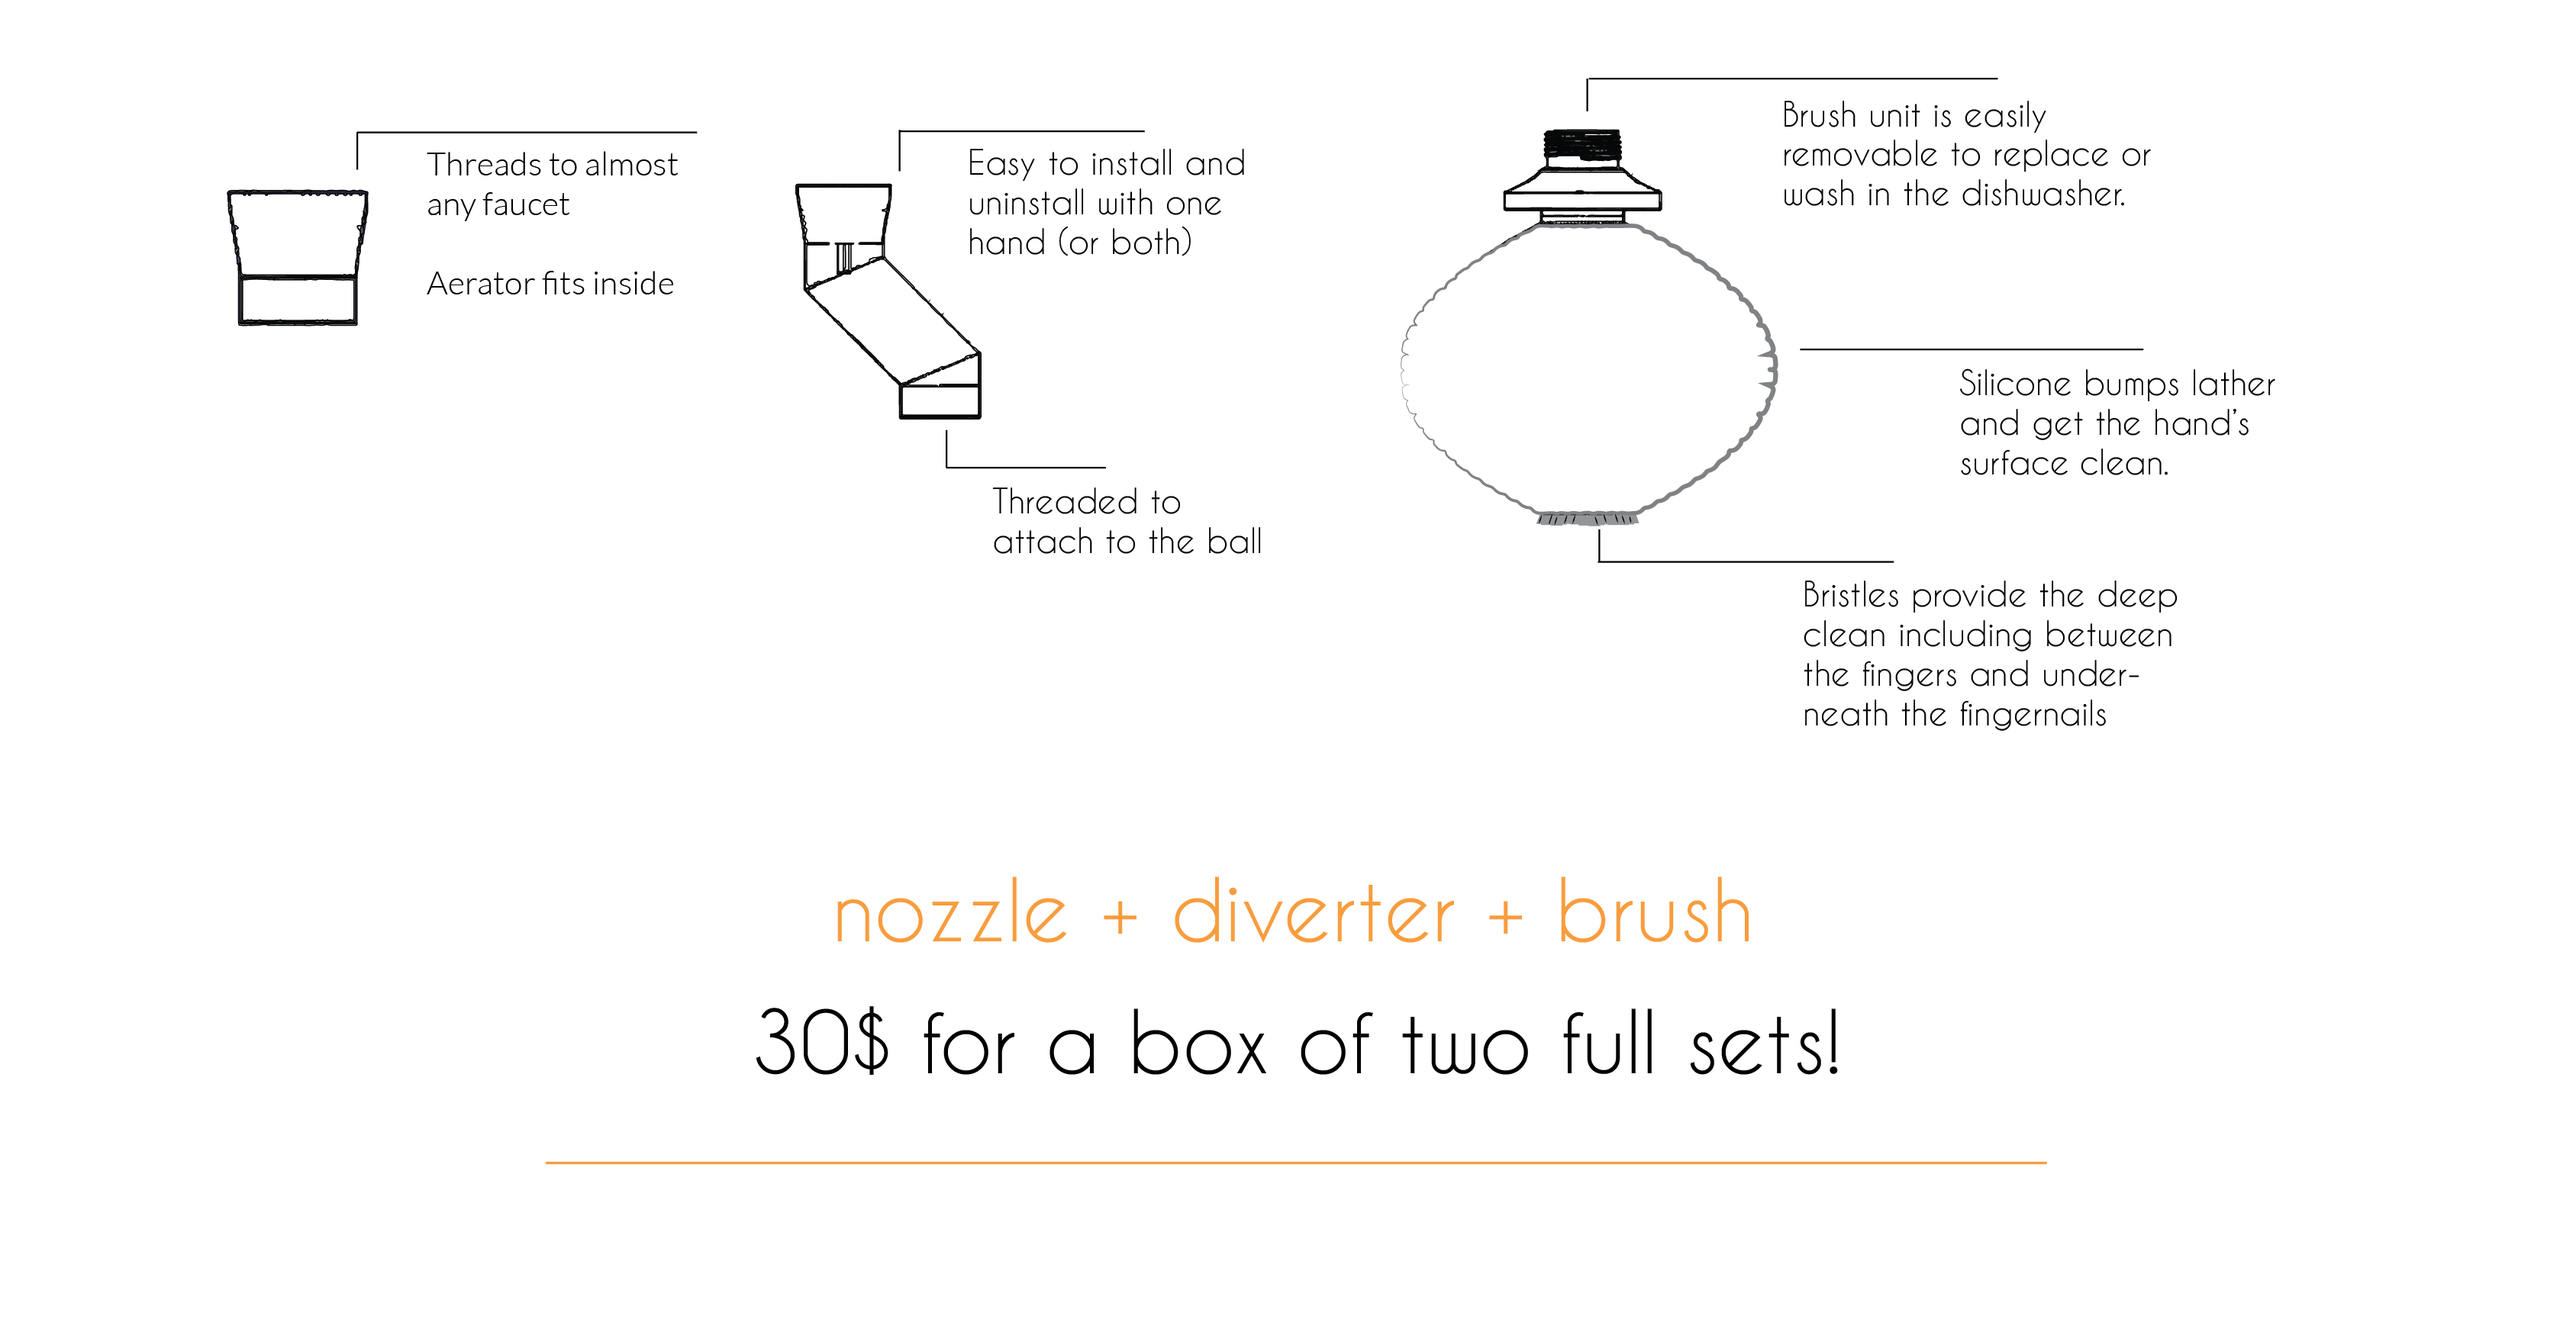
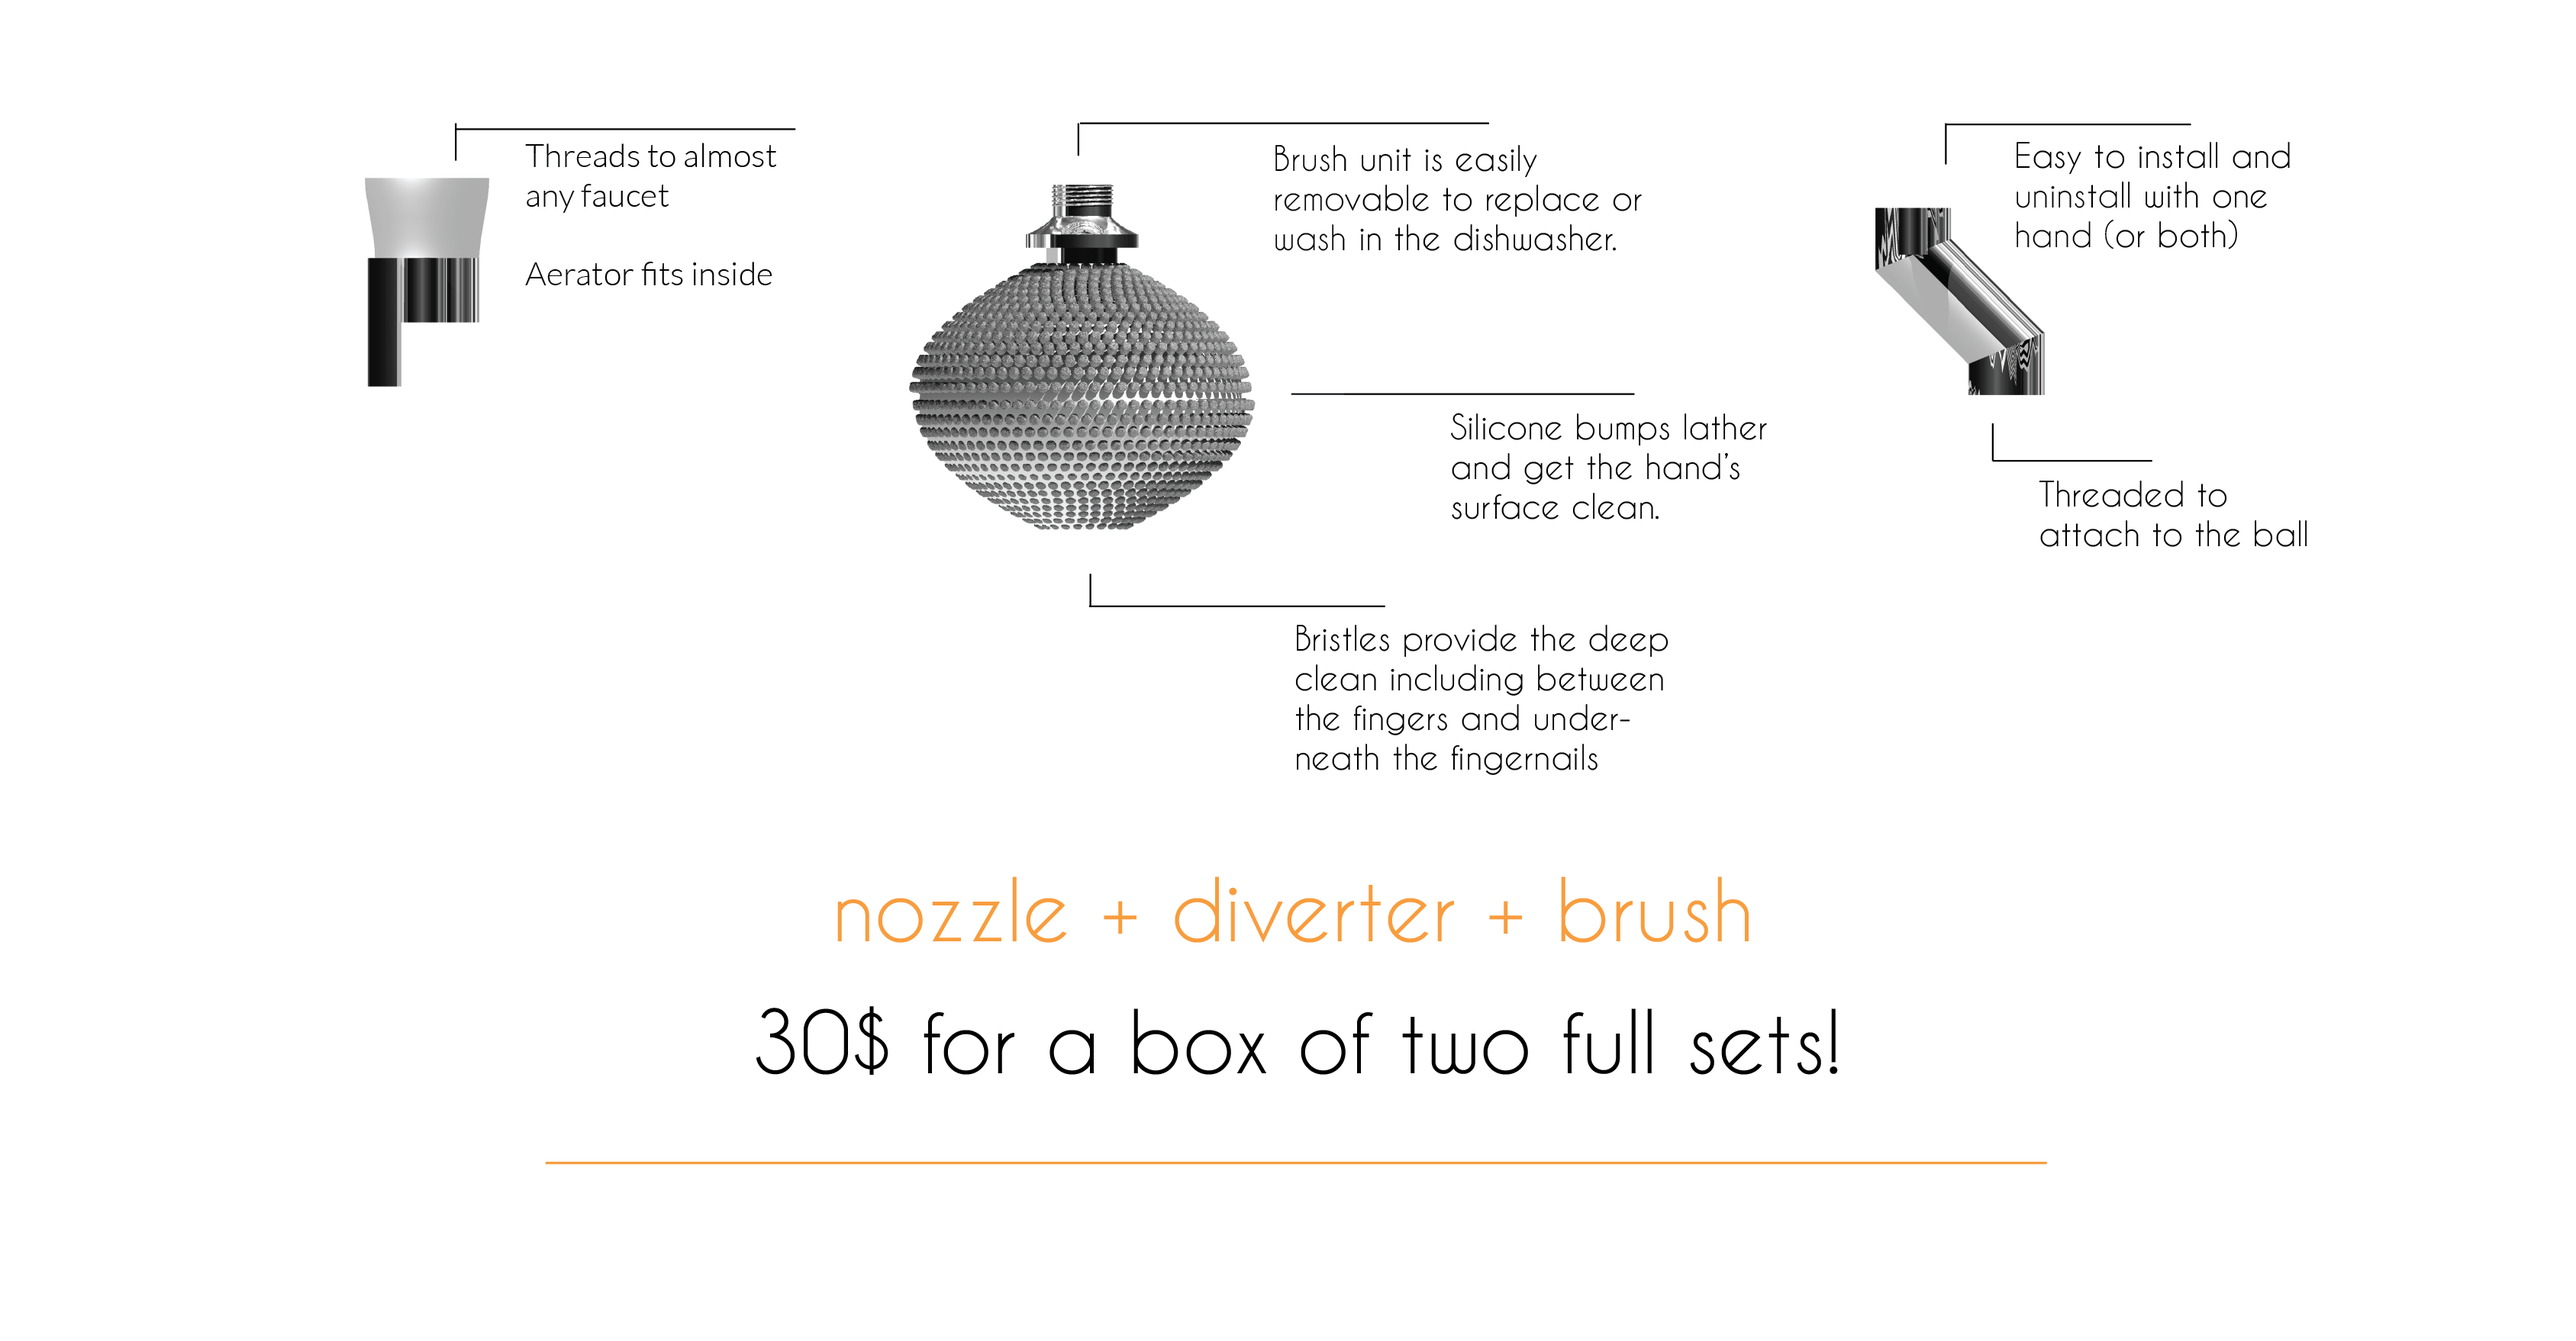
all new changes

diff --git a/index.html b/index.html
@@ -154,9 +154,21 @@
              <img src="images/features-01.png" style="max-width:100%;" >
 
            </div>
+          <div class="col-md-10 col-xs-12" id="renders">
+              <div class="col-xs-12">
+             <img src="images/renders-01.png" style="max-width:100%;" >
+           </div>
+           <div class="col-xs-12">
+              <img src="images/renders-02.png" style="max-width:100%;" >
+            </div>
+            <div class="col-xs-12">
+               <img src="images/renders-03.png" style="max-width:100%;" >
+            </div>
+          </div>
+
            <div class="col-md-10 col-md-offset-1 col-xs-12"style="margin-top:-5%;">
 
-                   <div id="price"><h3>30$ for a box of 2 full sets!</h3><hr></div>
+                   <div id="price"><h3></br>30$ for a box of 2 full sets!</h3><hr></div>
 
              <div class="quotes"><h3>washing has never felt this good!</h3><p>Ergonomically designed and multiple textures makes this a brush that feels good no matter your hand size.</p></div>
              <div class="quotes"><h3>finally a product you want to keep out!

diff --git a/css/scrolling-nav.css b/css/scrolling-nav.css
@@ -103,6 +103,11 @@ display:none;
 color: #f89d3e;
 }
 
+#renders{
+
+  display: none;
+}
+
 
 @media(min-width:767px) {
   .navbar {
@@ -442,6 +447,11 @@ display: none;
           display:block;
         }
 
+        #renders{
+
+          display: block;
+        }
+
       .circle1{
         display: none;
       }
@@ -499,8 +509,8 @@ display: none;
 
       .features-section{
 
-        margin-top: 100px;
-        height:600px;
+        margin-top: 5px;
+        height:1100px;
       }
 
       .scenario-section{
